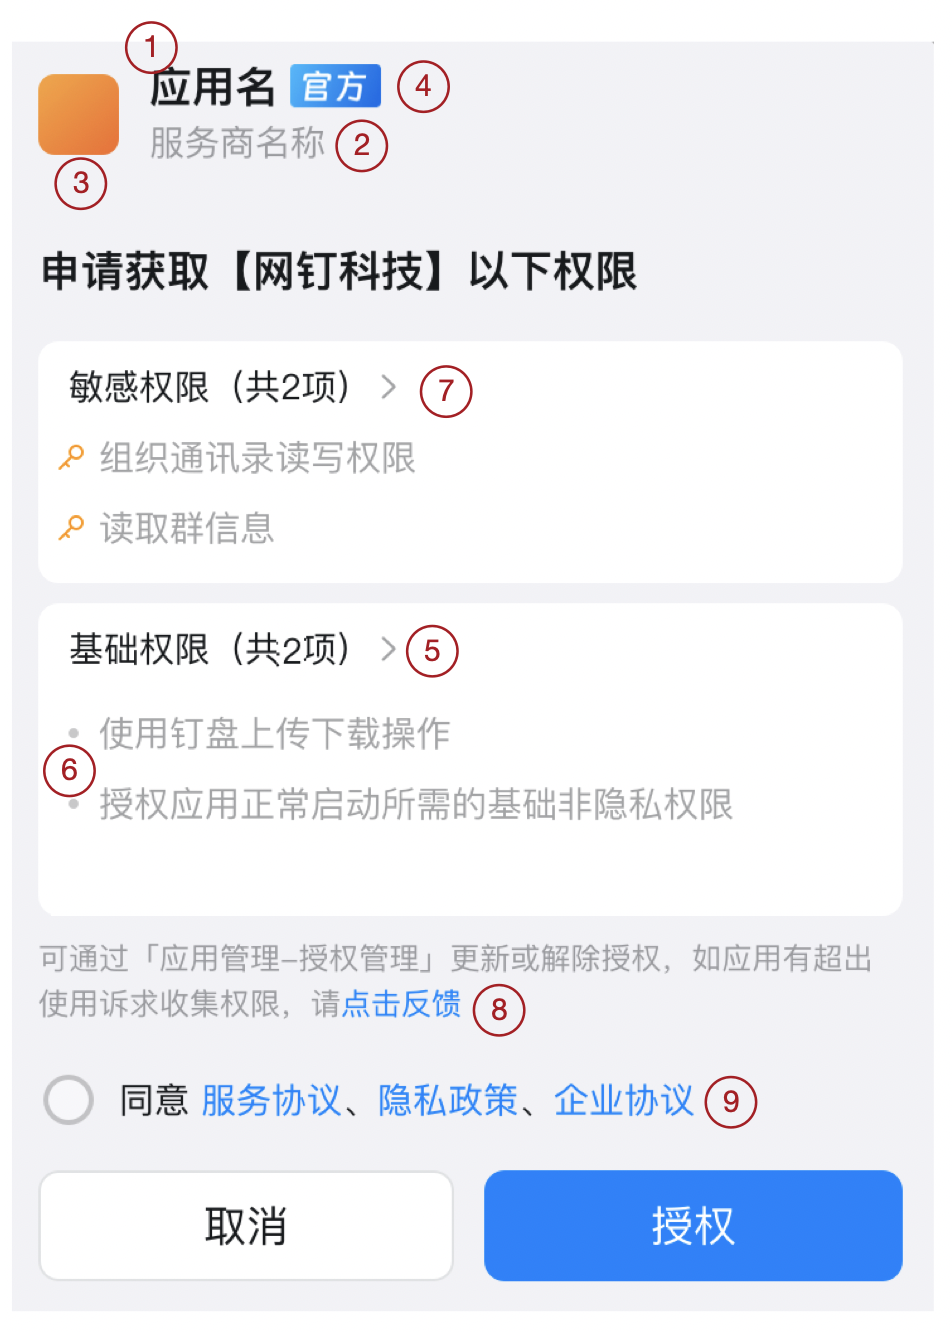
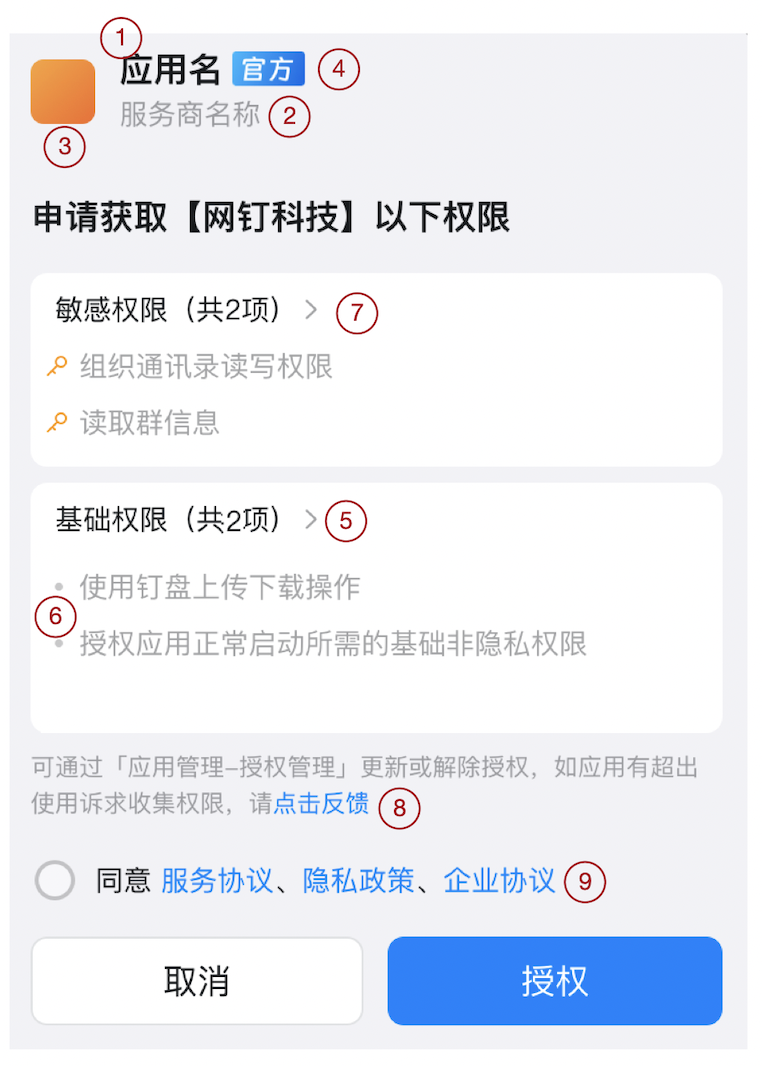
添加warning和缩小图片 (#16)
* 添加权限中心文档架构

* feat:添加描述

* feat: 添加权限概述overview.md的文字部分，

* feat: 添加权限概述overview.md的文字部分

* feat: 委托访问和应用访问介绍完成

* feat: 添加权限文档框架

* feat: 添加敏感权限开发文档

* bugfix：修复链接问题

* refact: 调整术语规范

* bugfix：修复链接问题

* feat: 添加用授权组件获取委托和应用access token的文档

* feat: 浏览器和jsapi获取access token的文档齐全

* feat: 添加权限术语permission-glossary

* feat: 添加“用户撤回权限”文档

* feat: 添加授权管理相关文档

* test: 添加warning

* feat: 缩小图片

---------

diff --git a/docs/develop/permission/token/jsapi/get_user_app_token_jsapi.md b/docs/develop/permission/token/jsapi/get_user_app_token_jsapi.md
@@ -130,6 +130,14 @@ Content-Type:application/json
 恭喜你成功获得用户委托的访问凭证，你可以用它请求对应的 OpenAPI 。如果 Refresh Token 过期，重复上述步骤。
 
 
+:::warning Note
+请用本文档描述的方式获取auth code，
+不要使用[dd.runtime.permission.requestAuthCode](https://open.dingtalk.com/document/isvapp/obtain-the-micro-application-logon-free-authorization-code)
+和[dd.getAuthCode](https://open.dingtalk.com/document/isvapp/mini-program-free-login)
+这两个jsapi静默授权获取auth code！！！
+:::
+
+
 ## 贴心示例
 ### 示例一
 获取用户个人手机号和个人信息是应用的常见操作。假设你的应用想要调用 OpenAPI [获取用户通讯录个人信息](https://open.dingtalk.com/document/isvapp/dingtalk-retrieve-user-information#)。

diff --git a/docs/learn/permission/manage/user-revoke-permission.md b/docs/learn/permission/manage/user-revoke-permission.md
@@ -6,10 +6,6 @@ sidebar_position: 2
 
 用户可以撤回之前授予给应用的委托权限。
 
-:::info Note
-目前用户可以在钉钉端内完成解除授权，后续我们将支持用户在浏览器内解除授权，敬请期待。
-:::
-
 ## 用户撤回委托权限体验
 
 依次点击【我的】-【安全中心】-【隐私开关】-【应用授权管理】，用户看到自己授权过的应用列表，选择想要撤回权限的应用进入，并点击【解除授权】。
@@ -18,6 +14,9 @@ sidebar_position: 2
 
 ![用户撤回权限2](/img/learn/permission/user_revoke_delegated_permission_2.png)
 
+:::info Note
+目前用户可以在钉钉端内完成解除授权，后续我们将支持用户在浏览器内解除授权，敬请期待。
+:::
 
 ## 开发者如何处理权限被撤回
 
